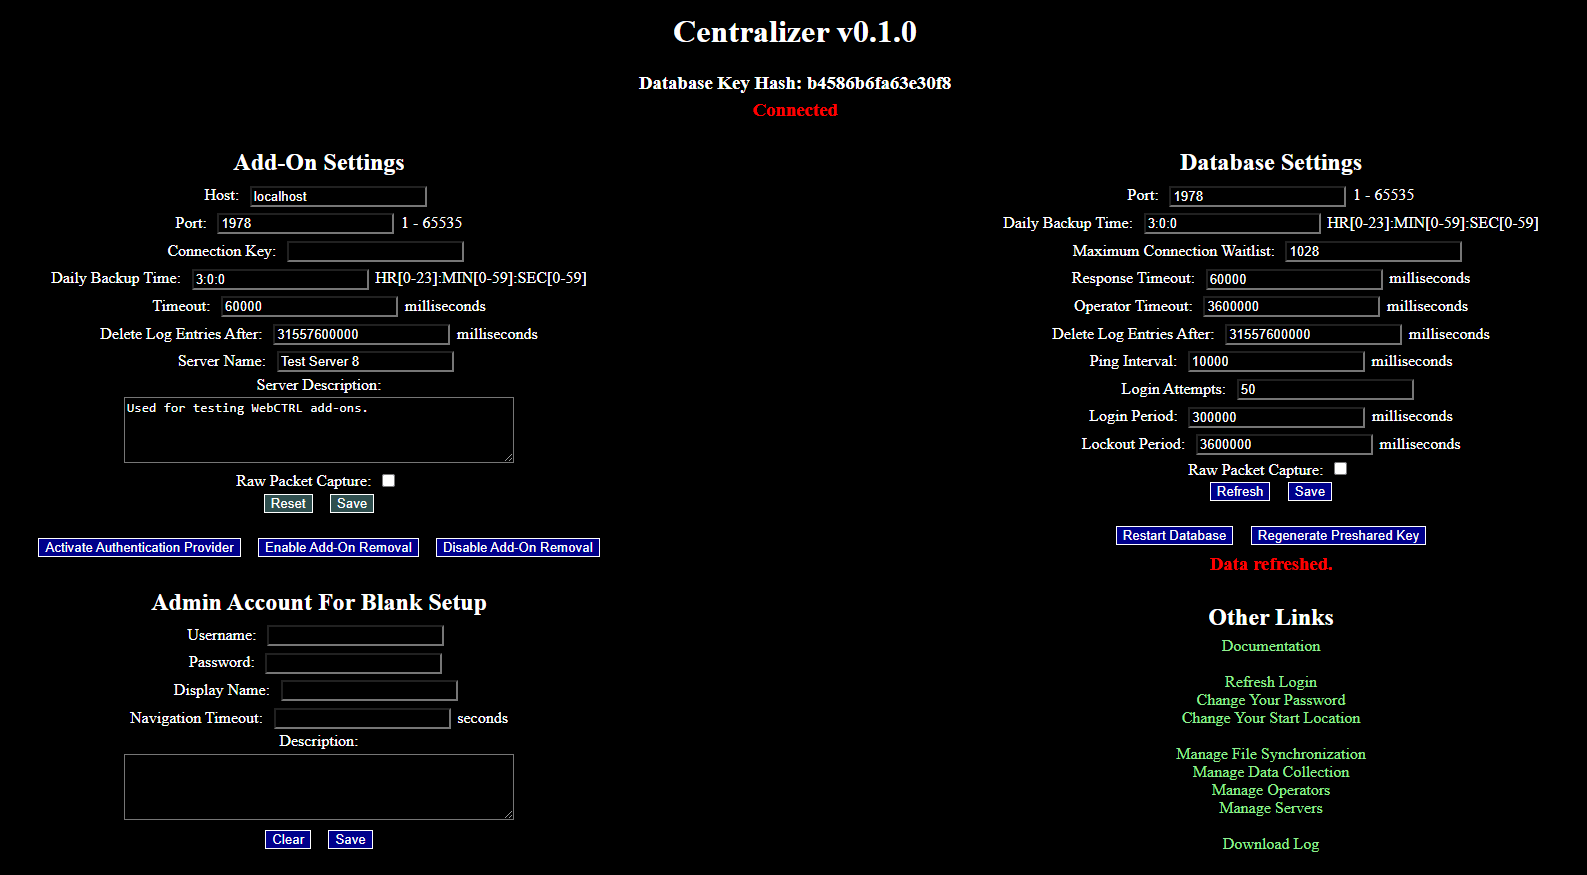
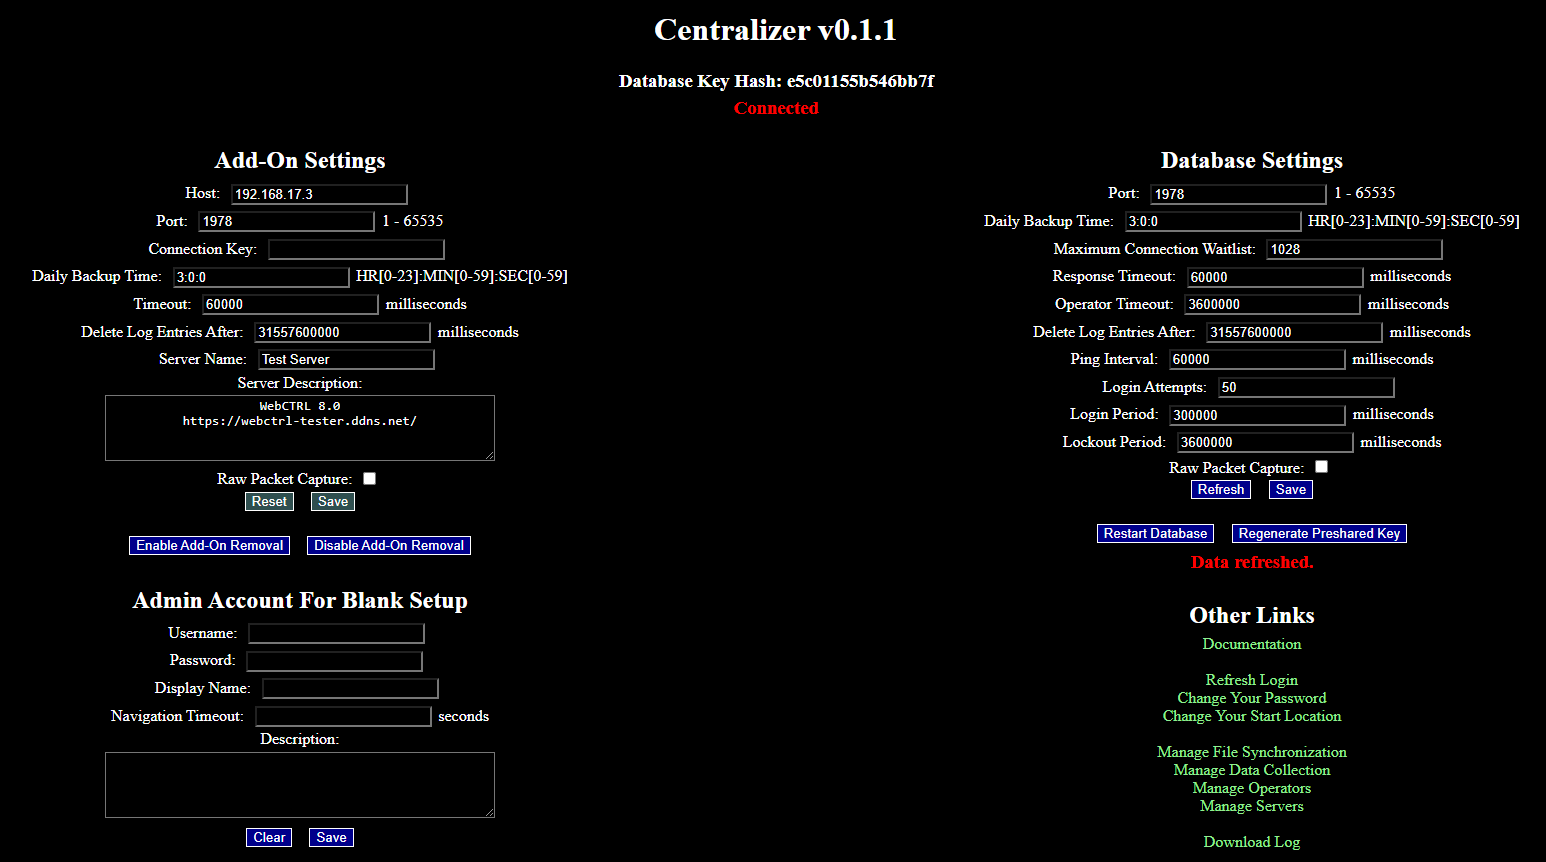
bug fix for password changes

diff --git a/src/aces/webctrl/centralizer/addon/web/CentralProvider.java b/src/aces/webctrl/centralizer/addon/web/CentralProvider.java
@@ -21,7 +21,7 @@ public class CentralProvider extends StandardWebOperatorProvider {
   @Override public WebOperator login(HttpServletRequest req, HttpServletResponse res) throws ValidationException, IOException, ServletException {
     WebOperator op = super.login(req,res);
     try{
-      if (op!=null && op instanceof CentralOperator && req.isSecure()){
+      if (op!=null && op instanceof CentralOperator && (SecureServlet.allowUnsecureProtocol || req.isSecure())){
         CentralOperator cop = (CentralOperator)op;
         if (cop.changePassword() && Initializer.isConnected()){
           RequestDispatcher dis = req.getServletContext().getContext(Initializer.getPrefix()).getRequestDispatcher("/ChangePassword");

diff --git a/src/aces/webctrl/centralizer/addon/web/SecureServlet.java b/src/aces/webctrl/centralizer/addon/web/SecureServlet.java
@@ -15,7 +15,7 @@ import javax.servlet.http.*;
  */
 public abstract class SecureServlet extends HttpServlet {
   private volatile Collection<String> roles = null;
-  private volatile static boolean allowUnsecureProtocol = true;
+  public volatile static boolean allowUnsecureProtocol = true;
   public SecureServlet(Collection<String> roles){
     this.roles = roles;
   }

diff --git a/src/aces/webctrl/centralizer/common/Config.java b/src/aces/webctrl/centralizer/common/Config.java
@@ -17,7 +17,7 @@ public class Config {
    * Hardcoded internal version string for the application.
    * Used to determine compatibility when connecting remote hosts.
    */
-  public final static String VERSION = "0.1.0";
+  public final static String VERSION = "0.1.1";
   /**
    * Used for evaluating compatible version strings.
    */

diff --git a/README.md b/README.md
@@ -74,8 +74,6 @@ All network traffic between the database and each WebCTRL server is securely enc
 
    ![](./images/main_page.png)
 
-1. Click the **Activate Authentication Provider** button.
-
 1. If your Centralizer database has never connected to a WebCTRL server before, you must fill out the section titled **Admin Account For Blank Setup** and press **Save**. An operator will be created with the configured credentials when the initial connection is established. See [Operator Management](#operator-management) for a description of each property.
 
 1. Fill out the section titled **Add-On Settings**. Press **Save** when all fields are populated.
@@ -98,7 +96,7 @@ All network traffic between the database and each WebCTRL server is securely enc
 
 1. Restart your WebCTRL server using the *rebootserver* manual command.
 
-1. The minimal setup requirements have been completed at this point. To verify, login using valid credentials for a central operator.
+1. The minimal setup requirements have been completed at this point. To verify, log into WebCTRL using valid credentials of a central operator.
 
 ## Add-On Uninstallation
 
